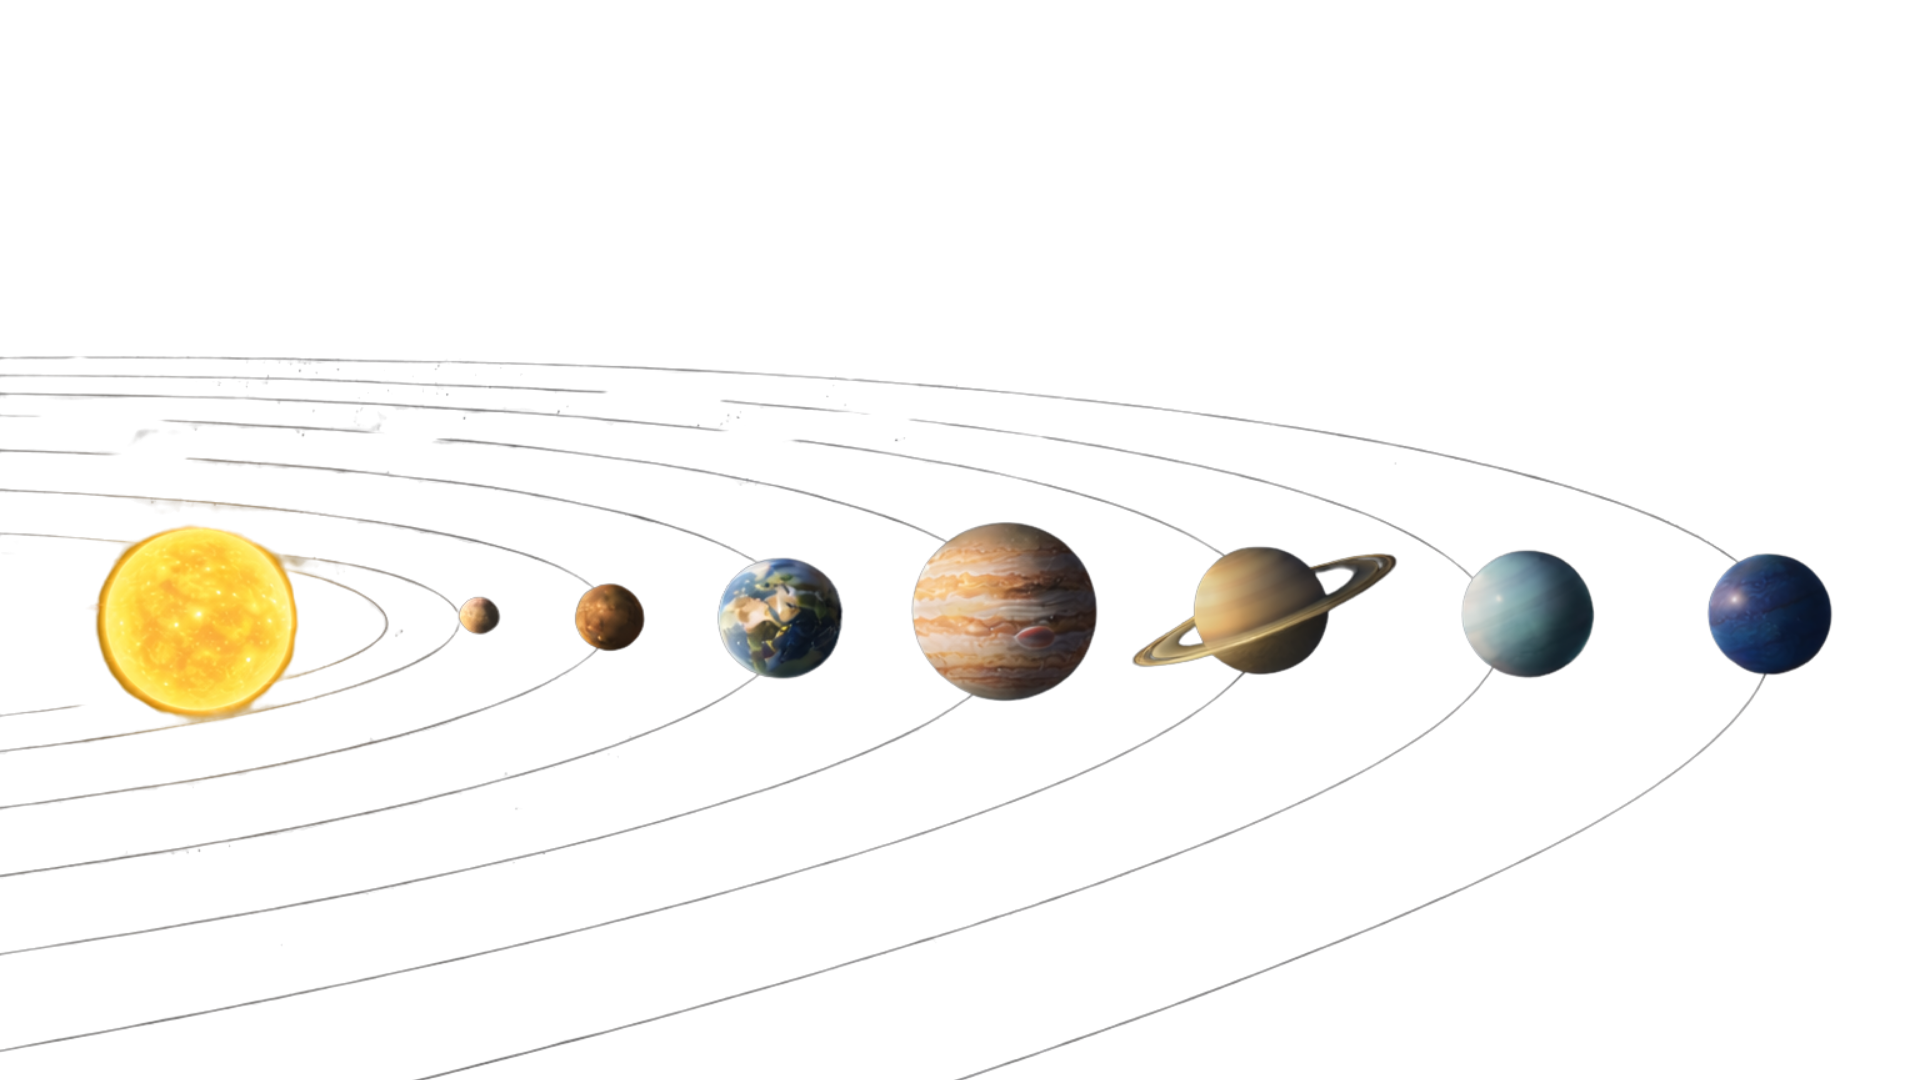
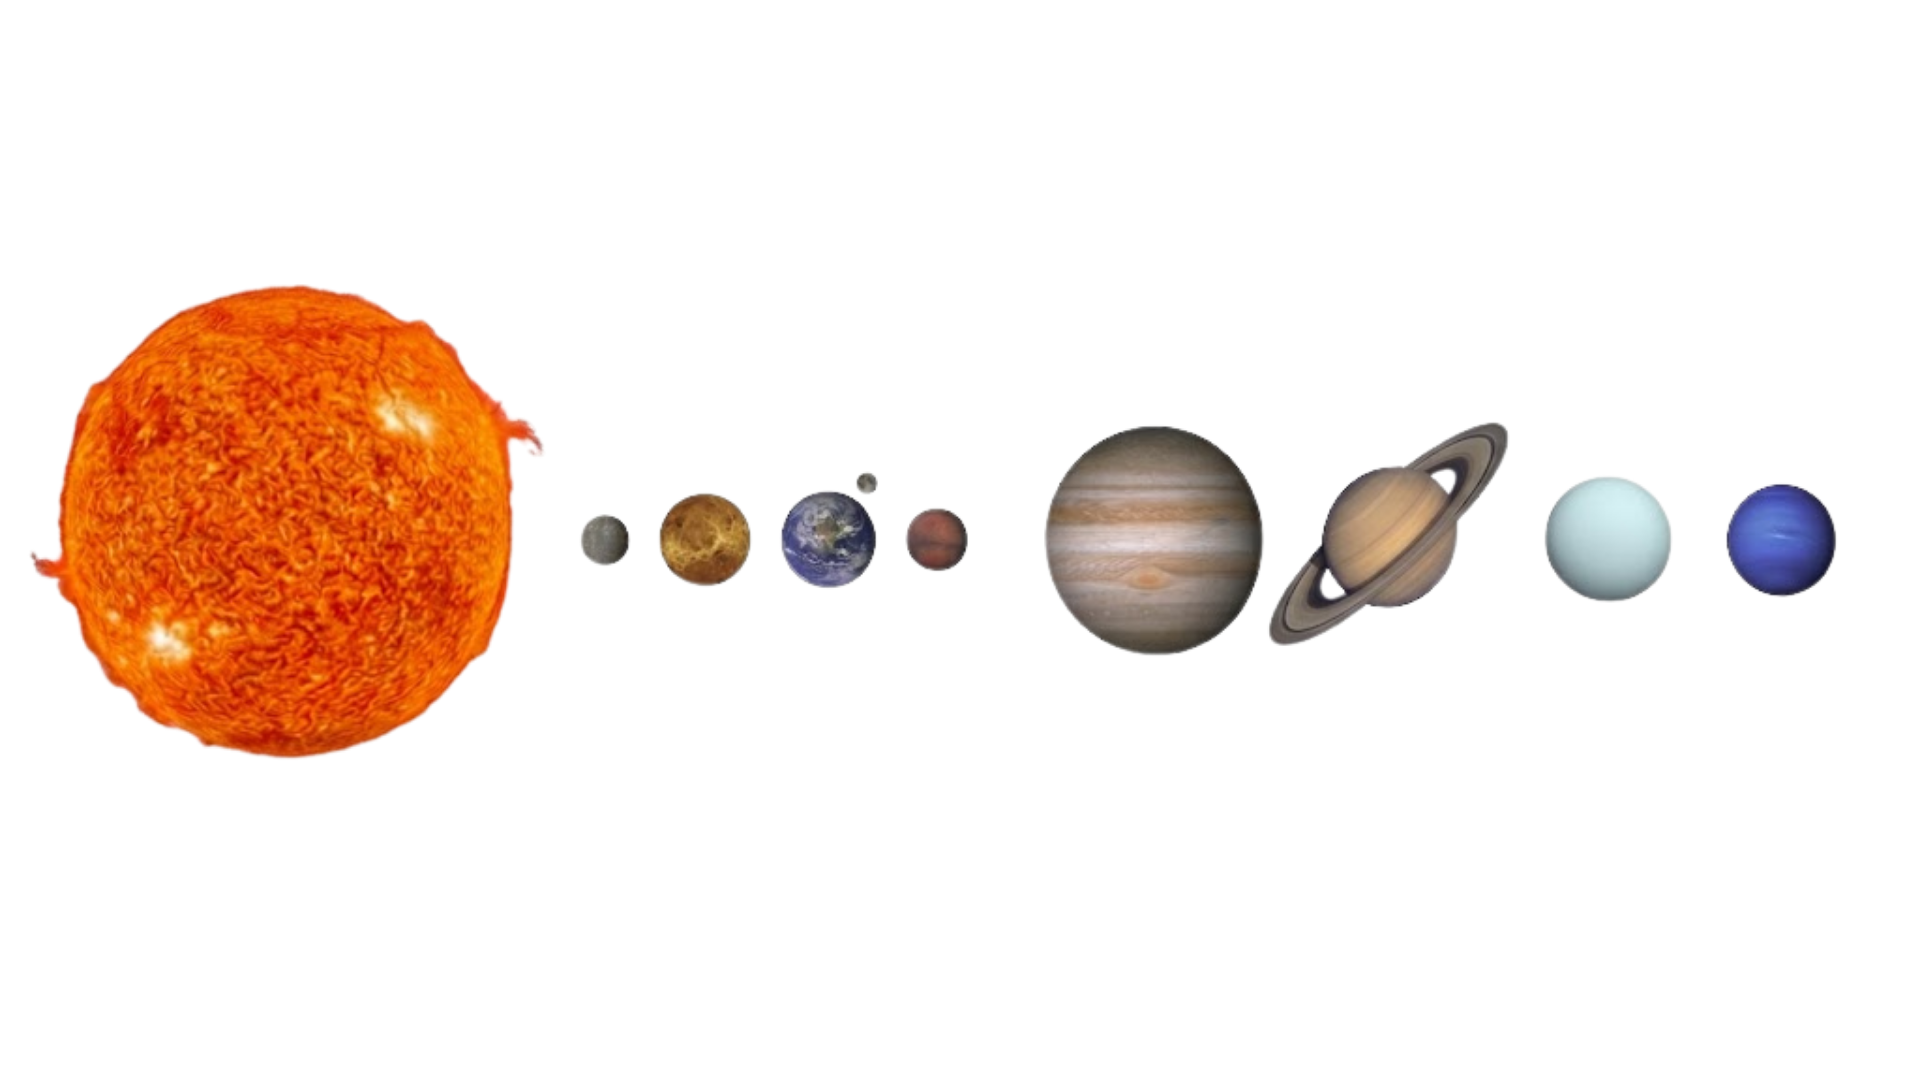
cambio foto de sistema solar

diff --git a/pages/app/noctis-lab/sistema-solar.html b/pages/app/noctis-lab/sistema-solar.html
@@ -237,7 +237,7 @@
                 </p>
             </div>
 
-            <img src="/assets/illustrations/space/asteroid-belt.webp" alt="Cinturón de asteroides" class="asteroid-bg">
+            <img src="/assets/illustrations/space/asteroid-belt.png" alt="Cinturón de asteroides" class="asteroid-bg">
 
         </section>
 
